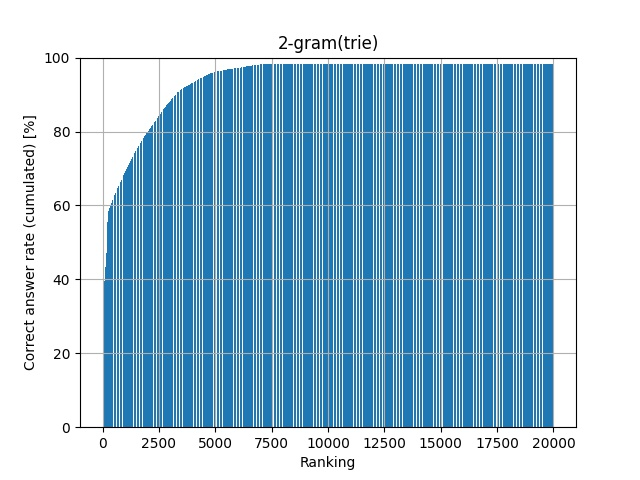
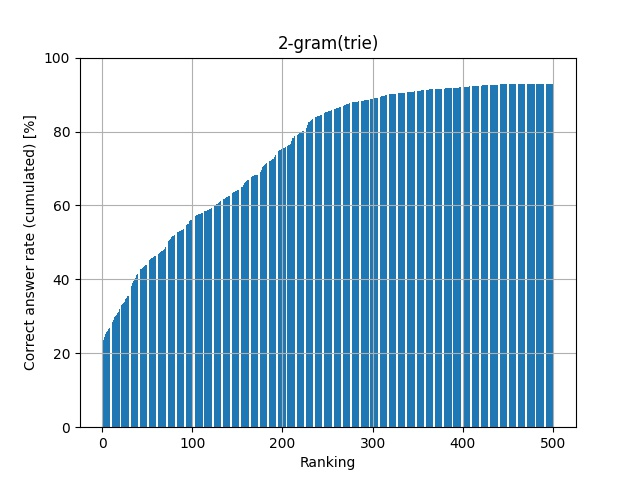
バグ修正

Changed region(s): [[0.1562, 0.125, 0.9062, 0.9375]]

diff --git a/create_trie.py b/create_trie.py
@@ -17,8 +17,8 @@ MML_DIR = '/mnt/c/mizar/mml'
 MML_VCT = './data/mml.vct'
 
 # トライの最大の深さ
-N = 5
-Ranking_Number = 20000
+N = 3
+Ranking_Number = 500
 
 class TrieNode:
     def __init__(self, name):
@@ -148,19 +148,13 @@ class TrieCompleteManager:
 
         # ユーザ入力から，トライ木を検索
         for i in range(len(parsed_input_reversed)):
-            # FIXME:シンボルに接頭辞がついていないため，意図通りに動作しない
-            # object -> 変数と判定されてしまう
-            # 「let x be object;」
-            # token = check_token_type(token_list, i)
+            # 型トークンを取得
             token = parsed_input_reversed[i]
-            # print(f'parsed_input:{parsed_input}')
-            # print(f'user_input:{user_input}')
-
-            # ユーザが利用している変数を保存
-            if token == '__variable_' and token not in set(variables):
+            # ユーザが利用していて，登録されていない変数を保存
+            if token == '__variable_' and user_input_reversed[i] not in set(variables):
                 variables.append(user_input_reversed[i])
-            # ユーザが利用しているラベルを保存
-            elif token == '__label_' and token not in set(labels):
+            # ユーザが利用していて，登録されていないラベルを保存
+            elif token == '__label_' and user_input_reversed[i] not in set(labels):
                 labels.append(user_input_reversed[i])
             # トライ木の検索
             if token in node.children:
@@ -175,8 +169,7 @@ class TrieCompleteManager:
         # {キーワード:優先度}の形式で保存する
         # 例：{"be":1, "being":2}
         suggest_keywords = {}
-        cnt = 1
-
+        rank = len(suggest_keywords) + 1
         # 「__variable_」「__M_」などを展開する処理
         for keyword in sorted_keywords:
             matched = re.match(r'__(\w\d*)_', keyword[0])
@@ -190,25 +183,39 @@ class TrieCompleteManager:
                     continue
 
                 for word in type_to_symbols[symbol_type[0]]:
-                    suggest_keywords[word] = cnt
-                    cnt += 1
+                    suggest_keywords[word] = rank
+                    rank = len(suggest_keywords)
+                    
             # ユーザが利用した変数を提案
             elif keyword[0] == '__variable_':
                 for v in list(variables)[::-1]:
-                    suggest_keywords[v] = cnt
-                    cnt += 1
+                    suggest_keywords[v] = rank
+                    rank = len(suggest_keywords)
             
             elif keyword[0] == '__label_':
                 for l in list(labels)[::-1]:
-                    suggest_keywords[l] = cnt
-                    cnt += 1
+                    suggest_keywords[l] = rank
+                    rank = len(suggest_keywords)
+            elif keyword[0] == '__number_':
+                pass
             else:
-                suggest_keywords[keyword[0]] = cnt
-                cnt += 1
+                suggest_keywords[keyword[0]] = rank
+                rank = len(suggest_keywords)
+
+            # 前処理段階で数字が「変数」「ラベル」両方に判断され重複し，辻褄が合わなくなっている
+            # if rank != len(suggest_keywords):
+            #     print('おかしい！！！')
+            #     print(f'variables:{variables}')
+            #     print(f'labels:{labels}')
+
+        # print(f'user_input:{user_input}')
+        # print()
+        # print(f'suggest_keywordsの長さ:{len(suggest_keywords)}')
+        # print(f'候補数：{cnt-1}')
         return suggest_keywords
 
     def assess_mml_acuracy(self):
-        self.apply_all_files(1100, 1105, 'acuracy')
+        self.apply_all_files(1100, 1355, 'acuracy')
         # 測定後の精度を作成
         self.draw()
 
@@ -227,9 +234,9 @@ class TrieCompleteManager:
 
         left = np.array([i+1 for i in range(len(result))])
         height = np.array(result.cumsum()/total) * 100
-        plt.bar(left[:-2], height[:-2])
+        plt.bar(left, height)
         count = 0
-        for x, y in zip(left[:-2], height[:-2]):
+        for x, y in zip(left, height):
             # plt.text(x, y, str(int(round(height[count], 0))), ha='center', va='bottom', fontsize=7)
             plt.text(x, y, '', ha='center', va='bottom', fontsize=7)
             count += 1
@@ -299,7 +306,12 @@ class OneFileAssessManager:
                 #         wrong_answers[answer] = 1
 
                 # Ranking_Number候補以内であればインクリメント
+                # FIXME:10000候補も存在しないはずだが，グラフではなぜか正答率が上昇している
                 if answer in suggest_keywords and suggest_keywords[answer] <= Ranking_Number:
+                    # FIXME:デバッグ用
+                    if suggest_keywords[answer] > 500:
+                        print(suggest_keywords[answer])
+                        print(suggest_keywords)
                     rank = suggest_keywords[answer]
                     right_answer_nums[rank-1] += 1
                 # print(f'input:{user_input}')
@@ -311,6 +323,8 @@ class OneFileAssessManager:
         original_cost = 0
         cost = 0
         saving_cost = 0
+        # トークン平均文字数に利用するカウンタ
+        token_cnt = 0
 
         # lineは[[let, let], [x, __variable_], [be, be], [object, __M_]]のような形式
         for line in self.article:
@@ -326,14 +340,20 @@ class OneFileAssessManager:
             first_token_cost = len(line_tokens[0])
             original_cost += first_token_cost
             cost += first_token_cost
+            token_cnt += 1
             # print(line, first_token_cost)
             for idx in range(1, length):
+                token_cnt += 1
                 answer = line[idx][0]
                 remaining_cost = len(answer)
                 original_cost += remaining_cost
 
                 user_input, parsed_input = self.get_user_input(idx, line_tokens, parsed_tokens)
-                items = trie_manager.predict(user_input, parsed_input, self.type_to_symbols, self.variables, self.labels)
+                items = trie_manager.predict(
+                    user_input, 
+                    parsed_input, 
+                    self.type_to_symbols, 
+                    self.variables, self.labels)
 
                 if remaining_cost <= 1:
                     cost += remaining_cost
@@ -342,7 +362,7 @@ class OneFileAssessManager:
                     while remaining_cost >= 2:
                         select_cost = items[answer]
                         if select_cost < remaining_cost:
-                            print(f'正解:{answer}, 予測順位:{items[answer]}, 文字入力数:{input_idx}')
+                            print(f'正解:{answer}, 文字入力数:{input_idx}, 予測順位:{items[answer]}')
                             print(f'本来のコスト:{len(answer)}')
                             print(f'節約コスト：{remaining_cost - select_cost}')
                             saving_cost += (remaining_cost - select_cost)
@@ -374,7 +394,7 @@ class OneFileAssessManager:
                                 cnt += 1
                 else:
                     cost += remaining_cost
-    
+        print(f'トークン平均文字数：{original_cost/token_cnt}')
         return original_cost, cost, saving_cost
 
     def create_one_file_trie(self, trie_manager):
@@ -393,6 +413,7 @@ class OneFileAssessManager:
                 for j in reversed(range(idx-N+1+diff, idx)):
                     if j == idx-1:
                         parent_node = trie_manager.root
+
                     node_name = line[j][1]
                     # 既に同名のノードが存在すれば取得
                     if node_name in parent_node.children:
@@ -415,13 +436,12 @@ if __name__ == '__main__':
     trie_manager = TrieCompleteManager()
     trie_manager.setup()
 
-    # trie_manager.assess_mml_acuracy()
-    # print(trie_manager.accuracy, trie_manager.right_answer_nums, trie_manager.prediction_time)
+    trie_manager.assess_mml_acuracy()
+    print(trie_manager.accuracy, trie_manager.right_answer_nums, trie_manager.prediction_time)
 
-
-    file_manager = OneFileAssessManager('./learning_data/diophan2.json')
-    original_cost, cost, saving_cost = file_manager.assess_file_keystroke(trie_manager)
-    print(original_cost, cost, saving_cost)
+    # file_manager = OneFileAssessManager('./learning_data/diophan2.json')
+    # original_cost, cost, saving_cost = file_manager.assess_file_keystroke(trie_manager)
+    # print(original_cost, cost, saving_cost)
     # ranking, in_suggest_cnt, total = file_manager.assess_file_acuracy(trie_manager)
     # print(ranking, in_suggest_cnt, total)
 

diff --git a/create_learning_data.py b/create_learning_data.py
@@ -48,11 +48,12 @@ def check_token_type(line,idx):
         return matched[0]
     elif is_reserved_word(token):
         return token
-    # NOTE:__number_は不要かも？
-    # elif re.fullmatch(r'^[0-9]+$', token):
-    #     return "__number_"
+    # NOTE:数字を「変数」と判断させないよう，以下の処理が必要
+    elif re.fullmatch(r'^[0-9]+$', token):
+        return "__number_"
     elif idx+1 <= len(line)-1 and line[idx+1] == ':':
         return "__label_"
+    # FIXME:byが手前にあるだけでは変数の可能性がある
     elif 'by' in set(line[:idx]):
         return "__label_"
     elif 'from' in set(line[:idx]):

diff --git a/graph.py b/graph.py
@@ -11,7 +11,7 @@ def draw(result, N):
     result = np.array(result)
     total = result.sum()
     print(total)
-    left = np.array([i+1 for i in range(len(result))])
+    left = np.array([i for i in range(len(result))])
     height = np.array(result.cumsum()/total) * 100
     plt.bar(left[:-2], height[:-2])
     count = 0
@@ -19,5 +19,3 @@ def draw(result, N):
         plt.text(x, y, str(int(round(height[count], 0))), ha='center', va='bottom', fontsize=7)
         count += 1
     plt.savefig(f'graphs/{title}.jpg')
-
-draw([4138, 1108, 433, 495, 106, 118, 78, 64, 95, 24, 67, 13, 24, 14, 31, 9, 20, 15, 8, 43, 11, 8, 16, 35, 30, 8, 6, 8, 5, 6, 7321], 3)
